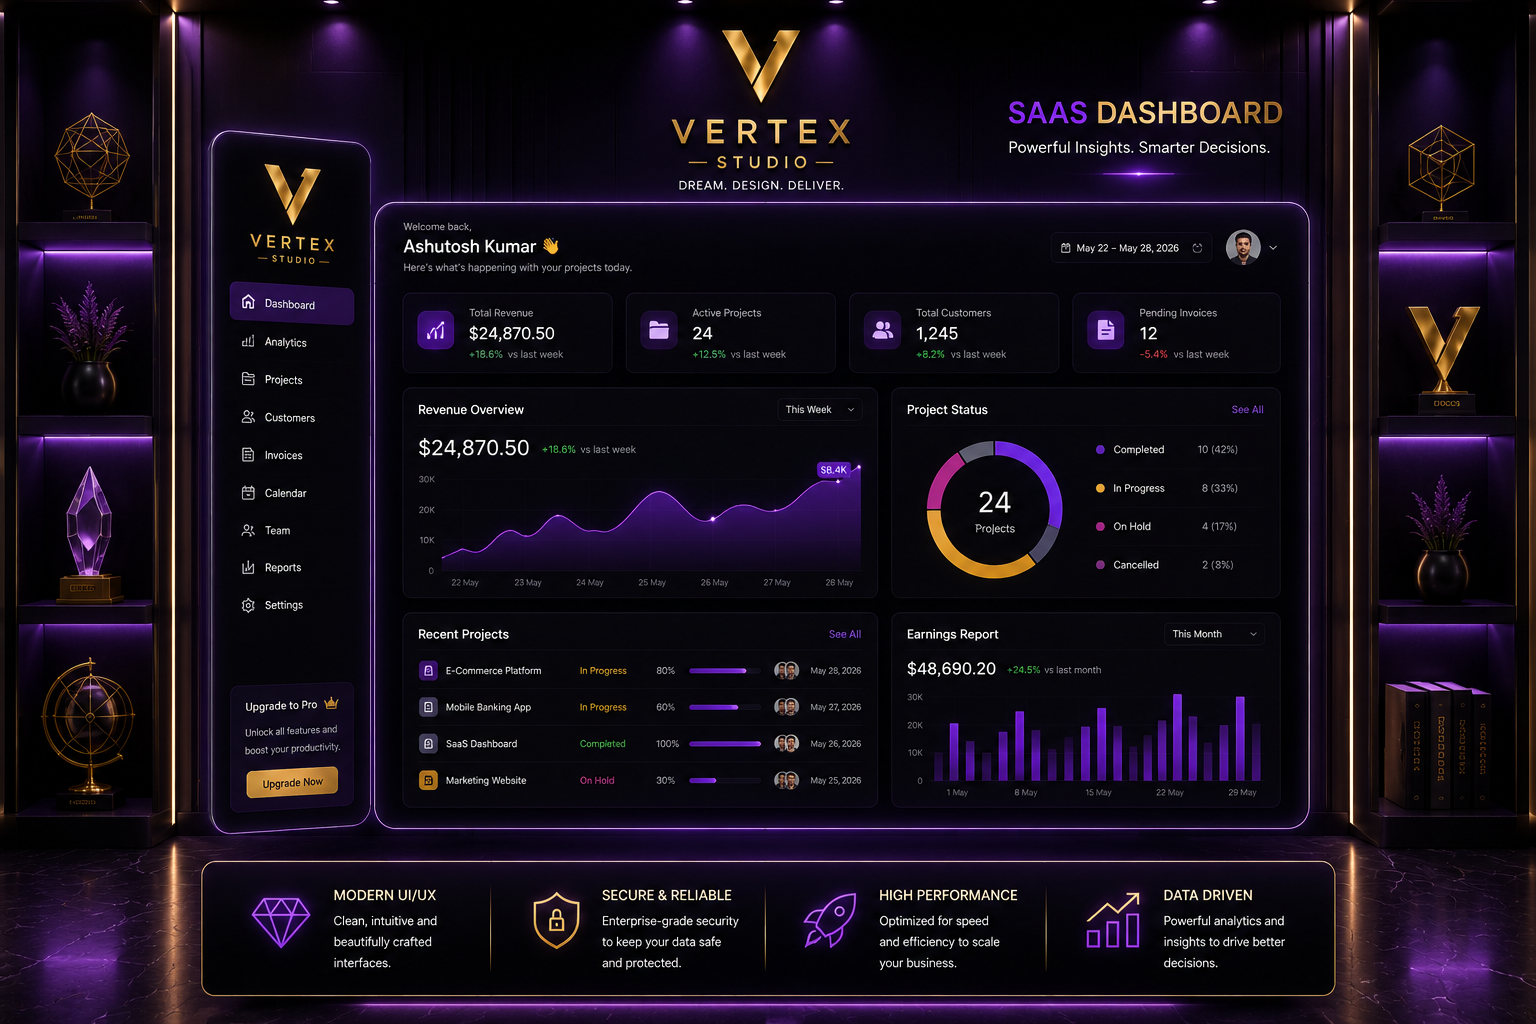
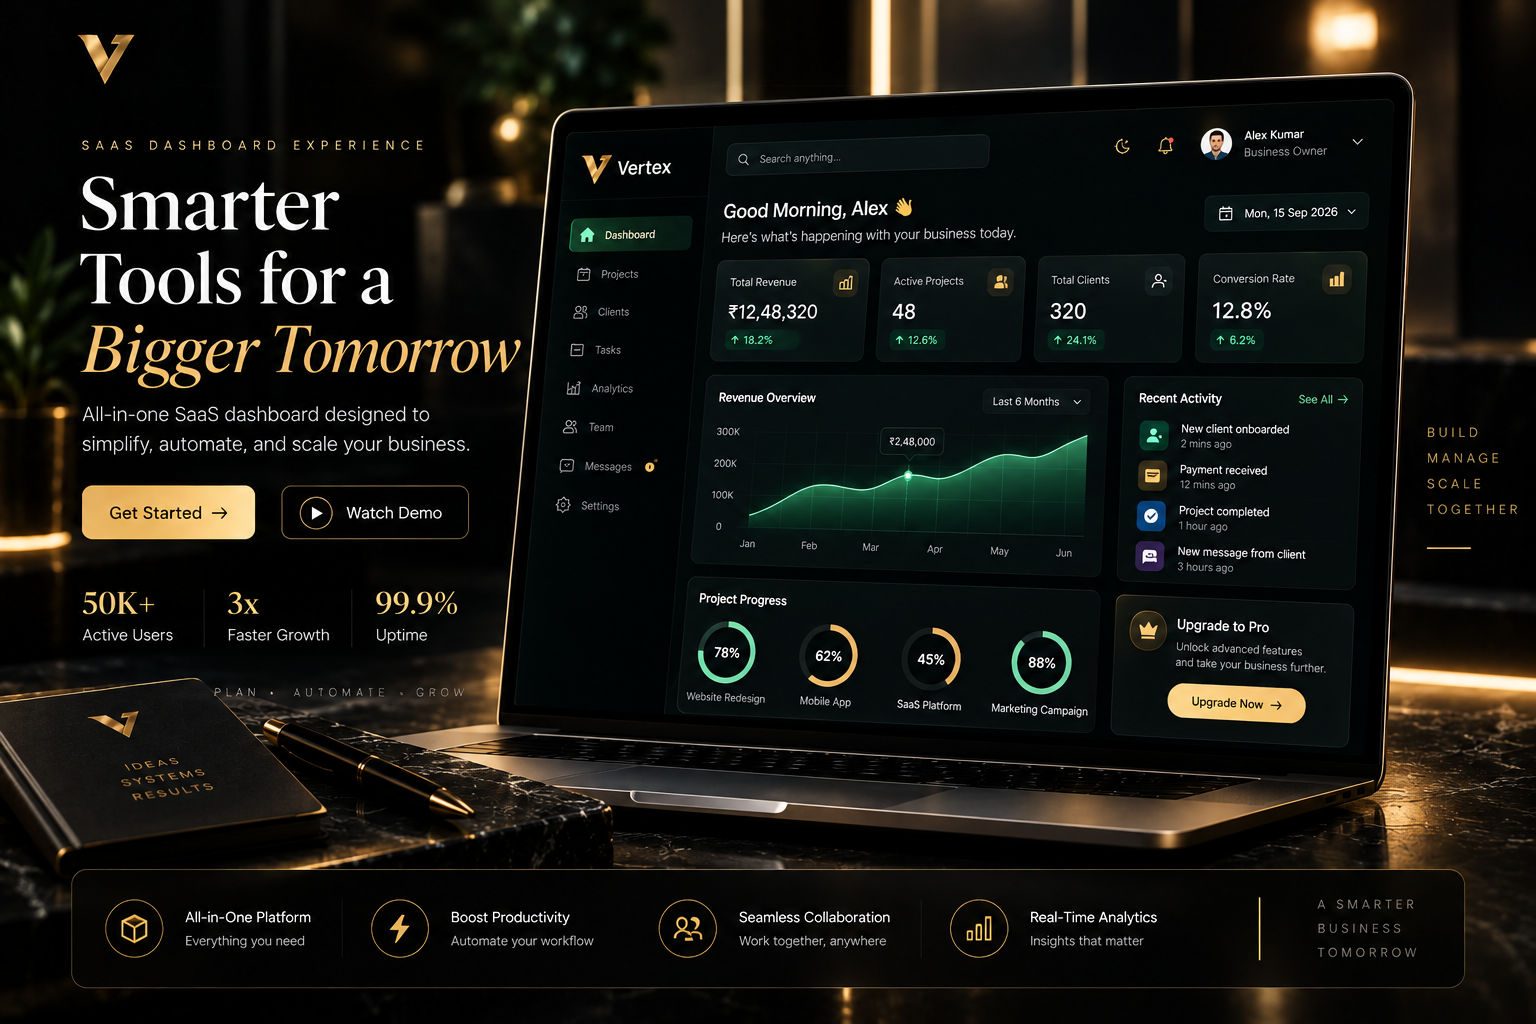
Update portfolio gallery layout

diff --git a/src/components/Gallery.jsx b/src/components/Gallery.jsx
@@ -1,145 +1,90 @@
 import "../styles/Gallery.css";
 
-import aboutStudio from "../assets/about-studio.png";
-import aboutWorkspace from "../assets/about-workspace.png";
-import aiCommand from "../assets/ai-command-center.png";
-import luxuryShowcase from "../assets/luxury-showcase.png";
+import fintechProject from "../assets/fintech-project.png";
+import realestateProject from "../assets/realestate-project.png";
+import travelProject from "../assets/travel-project.png";
+import saasAiProject from "../assets/saas-ai-project.png";
 import mobileApp from "../assets/mobile-app.png";
 import saasDashboard from "../assets/saas-dashboard.png";
 
 function Gallery() {
-
   const gallery = [
-
     {
-      image: aboutStudio,
-      title: "Creative Studio",
-      category: "Workspace",
+      image: fintechProject,
+      title: "Fintech Banking",
+      category: "Fintech / Web Design",
       mobile: false,
     },
-
     {
-      image: aboutWorkspace,
-      title: "Premium Workspace",
-      category: "Brand Identity",
+      image: realestateProject,
+      title: "Luxury Real Estate",
+      category: "Real Estate / Web Design",
       mobile: false,
     },
-
     {
-      image: aiCommand,
-      title: "AI Command Center",
-      category: "Dashboard",
+      image: travelProject,
+      title: "Luxury Travel",
+      category: "Travel / Web Design",
       mobile: false,
     },
-
     {
-      image: luxuryShowcase,
-      title: "Luxury Showcase",
-      category: "Web Design",
+      image: saasAiProject,
+      title: "AI SaaS Platform",
+      category: "SaaS / AI Product",
       mobile: false,
     },
-
     {
       image: mobileApp,
-      title: "Mobile App",
+      title: "Mobile Banking App",
       category: "UI / UX",
       mobile: true,
     },
-
     {
       image: saasDashboard,
       title: "SaaS Dashboard",
       category: "Web Application",
       mobile: false,
     },
-
   ];
 
   return (
-
-    <section
-      className="gallery"
-      id="gallery"
-    >
-
+    <section className="gallery" id="gallery">
       <div className="gallery-heading">
-
-        <span className="gallery-badge">
-
-          PORTFOLIO
-
-        </span>
+        <span className="gallery-badge">PORTFOLIO</span>
 
         <h2>
-
-          <span className="portfolio-heading">
-
-            Portfolio
-
-          </span>{" "}
-
+          <span className="portfolio-heading">Portfolio</span>{" "}
           Gallery
-
         </h2>
 
         <p>
-
           Explore our premium concepts,
           luxury interfaces and modern
           digital experiences.
-
         </p>
-
       </div>
 
       <div className="gallery-grid">
+        {gallery.map((item, index) => (
+          <article
+            className={`gallery-card ${
+              item.mobile ? "mobile-card" : ""
+            }`}
+            key={index}
+          >
+            <div className="gallery-image">
+              <img src={item.image} alt={item.title} />
+            </div>
 
-        {
-
-          gallery.map((item,index)=>(
-
-            <article
-              className={`gallery-card ${item.mobile ? "mobile-card" : ""}`}
-              key={index}
-            >
-
-              <div className="gallery-image">
-
-                <img
-                  src={item.image}
-                  alt={item.title}
-                />
-
-              </div>
-
-              <div className="gallery-overlay">
-
-                <span>
-
-                  {item.category}
-
-                </span>
-
-                <h3>
-
-                  {item.title}
-
-                </h3>
-
-              </div>
-
-            </article>
-
-          ))
-
-        }
-
+            <div className="gallery-overlay">
+              <span>{item.category}</span>
+              <h3>{item.title}</h3>
+            </div>
+          </article>
+        ))}
       </div>
-
     </section>
-
   );
-
 }
 
 export default Gallery;

diff --git a/src/components/Footer.jsx b/src/components/Footer.jsx
@@ -6,18 +6,12 @@ import {
   FaWhatsapp,
 } from "react-icons/fa";
 
-import abstractBg from "../assets/abstract-bg.png";
 import "../styles/Footer.css";
 
 function Footer() {
   return (
     <footer className="footer">
-      <div
-        className="footer-bg"
-        style={{
-          backgroundImage: `url(${abstractBg})`,
-        }}
-      >
+      <div className="footer-bg">
         <div className="footer-overlay"></div>
       </div>
 
@@ -28,7 +22,6 @@ function Footer() {
         transition={{ duration: 0.8 }}
         viewport={{ once: true }}
       >
-
         {/* Premium Top Divider */}
         <div className="footer-top-divider"></div>
 
@@ -90,6 +83,7 @@ function Footer() {
             <span>WhatsApp</span>
           </a>
         </div>
+
         <div className="footer-divider"></div>
 
         <p className="footer-copy">
@@ -106,7 +100,6 @@ function Footer() {
             Ashutosh Kumar
           </span>
         </p>
-
       </motion.div>
     </footer>
   );

diff --git a/src/styles/Gallery.css b/src/styles/Gallery.css
@@ -187,6 +187,7 @@ gap:36px;
 align-items:start;
 
 }
+
 /* ==========================
    Premium Gallery Card
 ========================== */
@@ -336,14 +337,6 @@ border-radius:22px;
 object-fit:unset;
 
 transition:transform .8s ease;
-
-}
-
-.mobile-card .gallery-image img{
-
-max-width:420px;
-
-margin:auto;
 
 }
 
@@ -601,12 +594,6 @@ border-radius:18px;
 
 }
 
-.mobile-card .gallery-image img{
-
-max-width:320px;
-
-}
-
 .gallery-overlay{
 
 padding:22px;
@@ -656,12 +643,6 @@ border-radius:20px;
 .gallery-image{
 
 padding:12px;
-
-}
-
-.mobile-card .gallery-image img{
-
-max-width:260px;
 
 }
 
